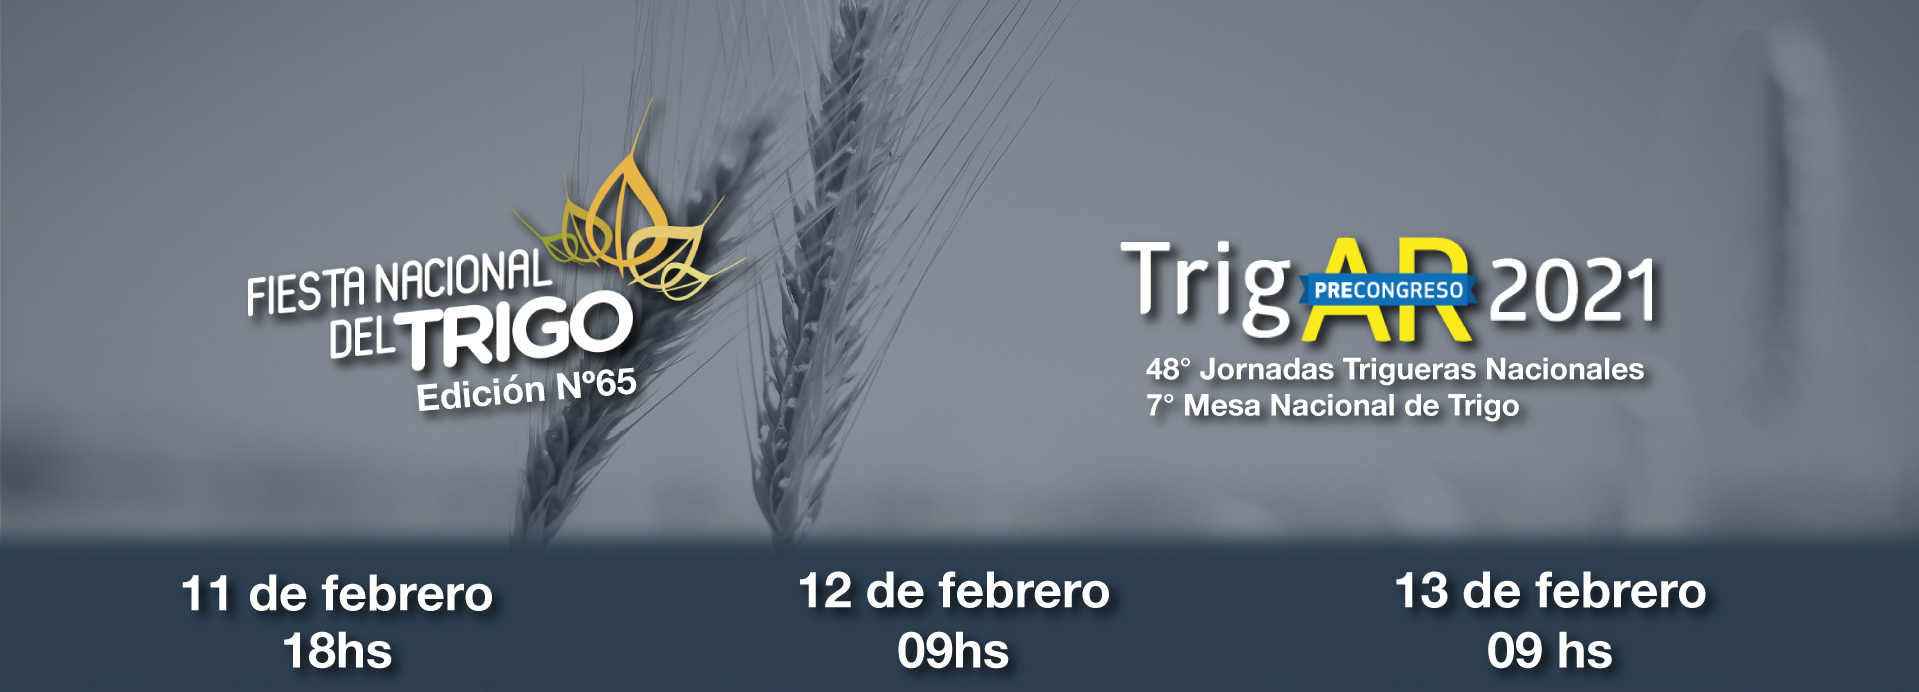
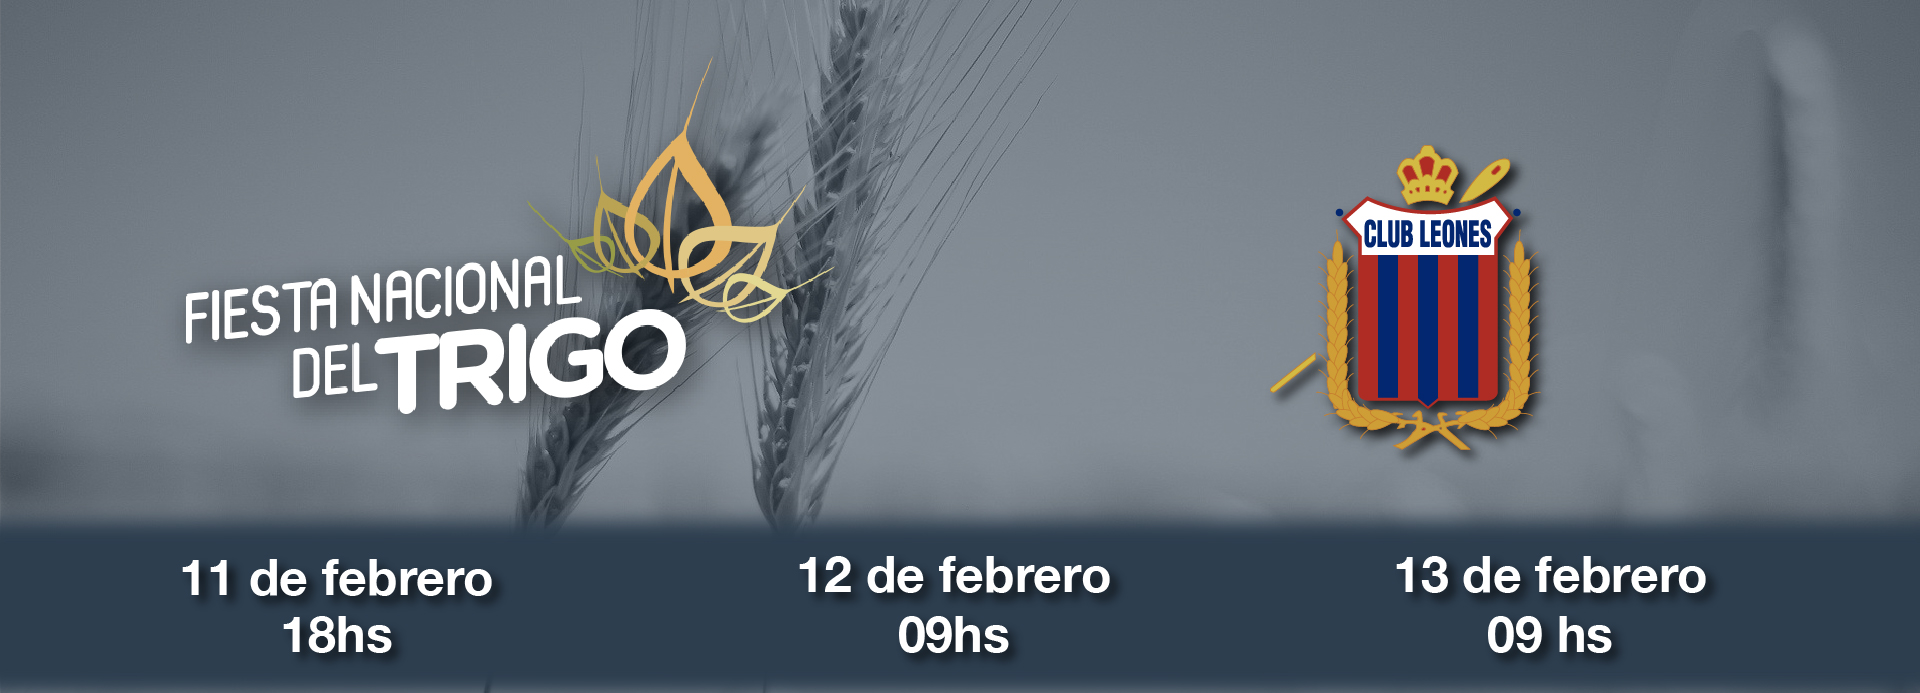
se cambio imagen slider, y tambien se modifico en mobile

Changed region(s): [[0.0, 0.7283, 1.0, 1.0], [0.5842, 0.2124, 0.8916, 0.6676], [0.0922, 0.1821, 0.4304, 0.6069]]

diff --git a/src/app/components/home/home.component.html b/src/app/components/home/home.component.html
@@ -11,7 +11,7 @@
             <!-- <img class="slider-img" src="../../../assets/images/fondo/foto-del-slider.jpg" alt="slider-home" width="100%"> -->
             <div class="sliderMobile mx-auto">
                 <img class="rounded mx-auto d-block" src="../../../assets/images/logos/fiesta-del-trigo-Nº65.png" width="75%" height="70%">
-                <img class="rounded mx-auto d-block" src="../../../assets/images/logos/trigar-slider.png" width="75%" height="70%">
+                <img class="rounded mx-auto d-block" src="../../../assets/images/logosOrganizadores/escudoleones.png" width="35%" height="40%">
                 <p class="textSlider">11 de febrero 18hs</p>
                 <p class="textSlider">12 de febrero 09hs</p>
                 <p class="textSlider pb-2">13 de febrero 09hs</p>
